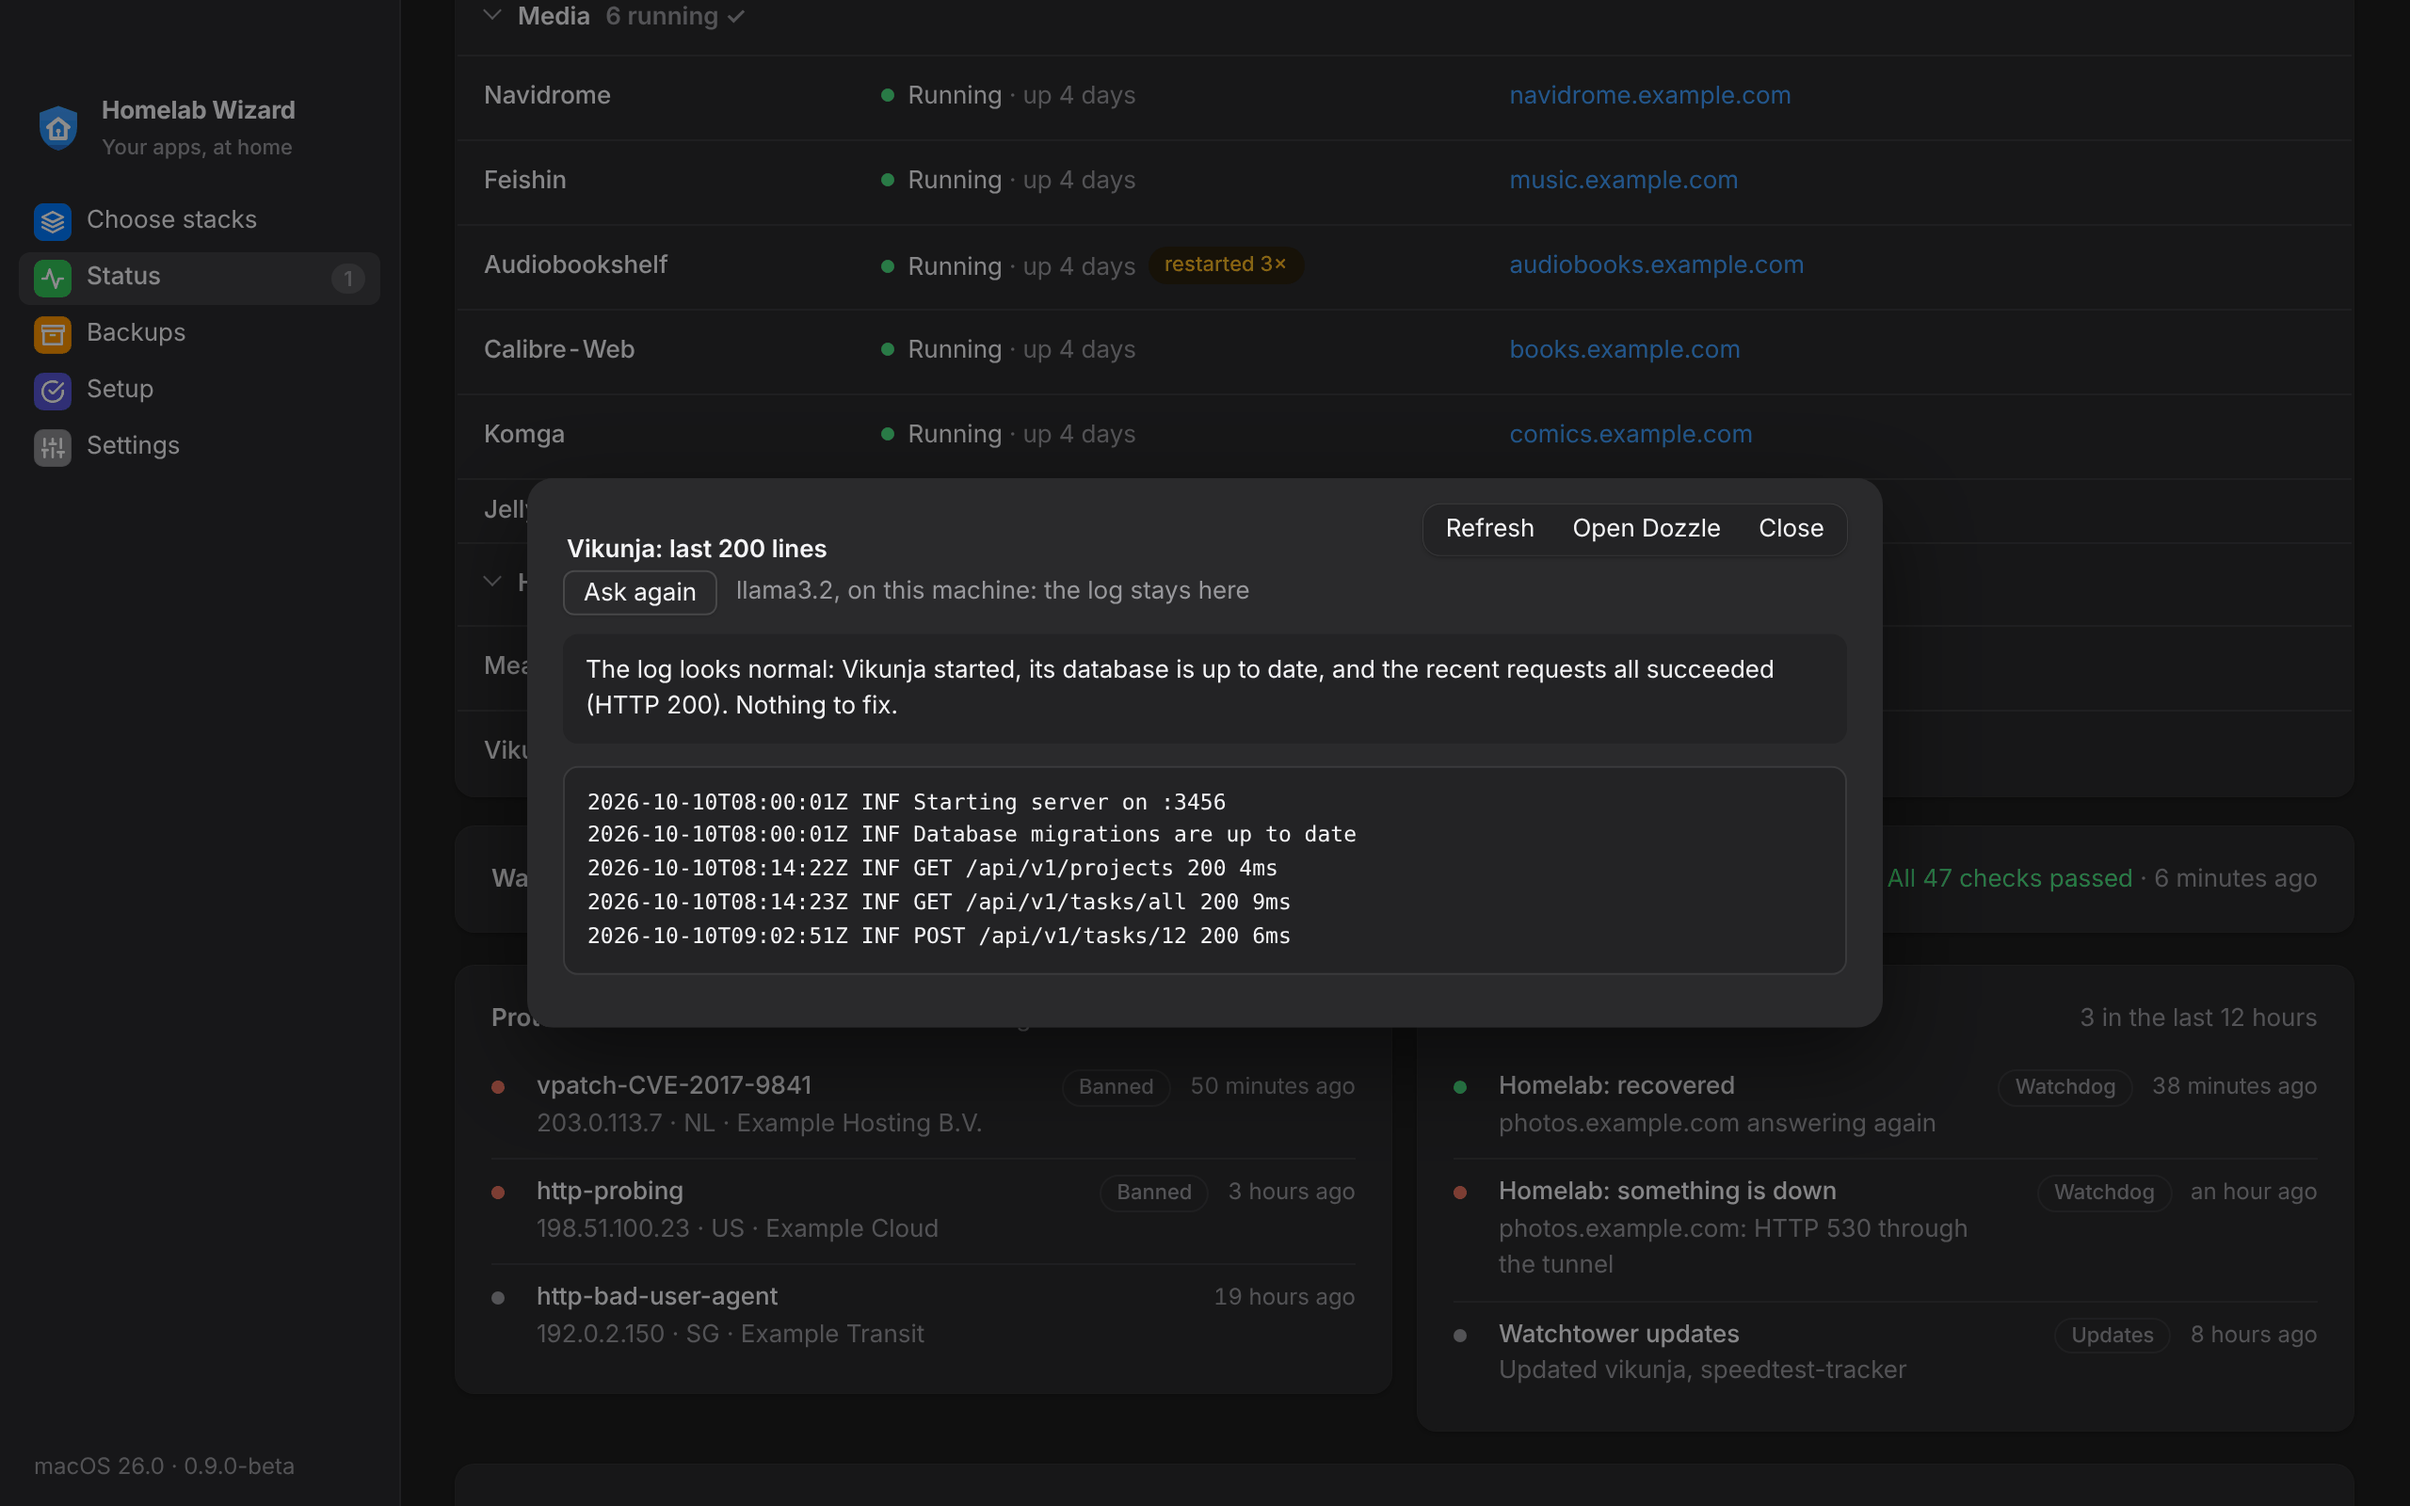
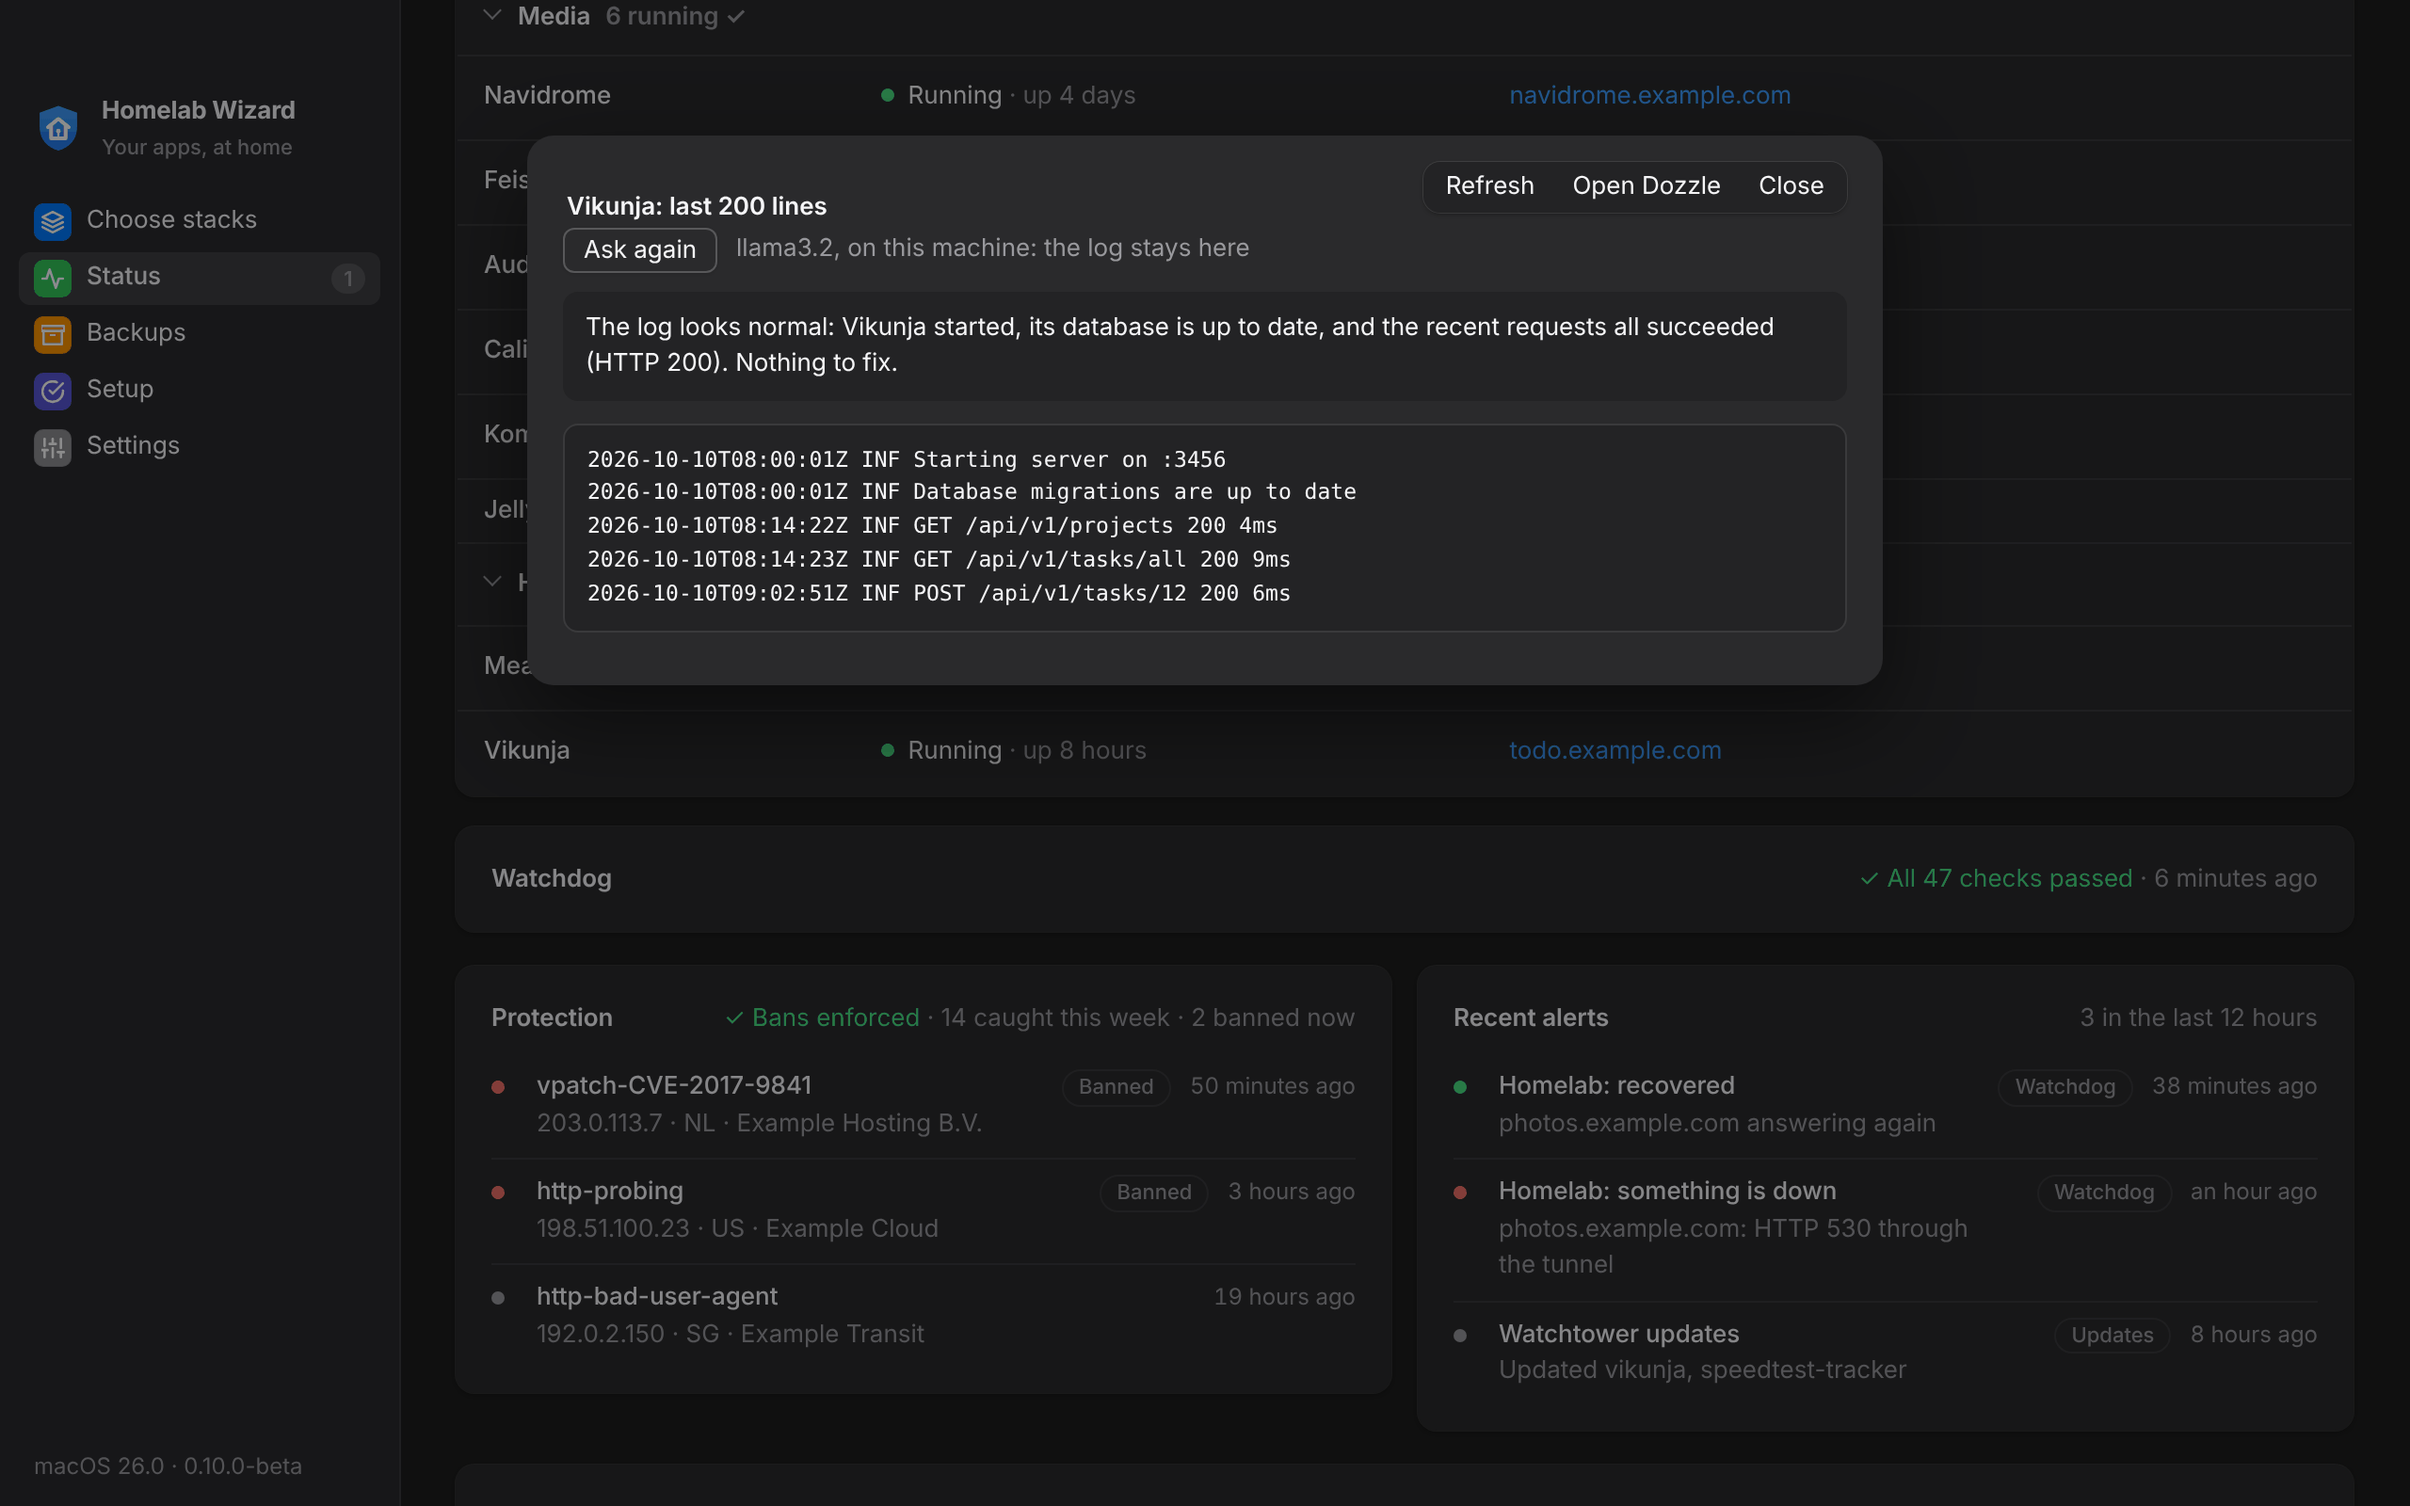
The job window holds still while apps update (#269)
* The job window holds still while apps update

On a Windows PC, Update apps' window jumped around as the apps updated
(the owner's report, with screenshots), and the page behind it with it:

- The command and log sheets were centred on the screen, so each app's
  row that came in moved both their edges. They now hang from the top
  (9% down, 24px at least) and grow down; a job's rows scroll in a box of
  their own under its bar, so the bar and the buttons stay put. The page
  behind no longer scrolls when a sheet is scrolled past its end.
- Status redrew behind an open sheet at each change the engine reported
  (containers stopping and starting during an update), reshuffling the
  page. Behind a sheet it is only marked out of date now, and read once
  when the last sheet closes, if something changed meanwhile.
- After Update them was clicked, its Cancel stayed: it only hid the
  window while the job went on. A running job has no buttons until it
  ends, as an app's own action already had.

A click-through check runs a 14-app update as the Mac, Windows, and
Linux: the sheet's top does not move as the rows come, no button shows
while it runs, Status is not read behind it until it closes. It fails on
the old code (the sheet moved from 277px to 88px; Update them and Cancel
while running).

Claude-Session: https://claude.ai/code/session_01K9KWL7U81wUSwnu7R7tKtT

* The Logs screenshots, with the sheet hanging from the top
[…]

diff --git a/web/dist/app.js b/web/dist/app.js
@@ -1198,7 +1198,7 @@
       }
     });
   }
-  function Sheet({ id, titleId, children }) {
+  function Sheet({ id, titleId, onClose, children }) {
     const ref = A2(null);
     _2(() => {
       closeOnEscape();
@@ -1209,9 +1209,10 @@
         if (!panel.hidden) {
           if (!panel.contains(document.activeElement)) before = document.activeElement;
           requestAnimationFrame(() => (panel.querySelector("button:not([disabled])") || panel).focus());
-        } else if (before && document.contains(before)) {
-          before.focus();
+        } else {
+          if (before && document.contains(before)) before.focus();
           before = null;
+          if (!openSheets().length) onClose?.();
         }
       });
       seen.observe(panel, { attributes: true, attributeFilter: ["hidden"] });
@@ -1221,8 +1222,8 @@
   }
 
   // web/src/sheets/Sheet.tsx
-  function CommandSheet() {
-    return /* @__PURE__ */ u2(Sheet, { id: "cliPanel", titleId: "cliTitle", children: [
+  function CommandSheet({ onClose }) {
+    return /* @__PURE__ */ u2(Sheet, { id: "cliPanel", titleId: "cliTitle", onClose, children: [
       /* @__PURE__ */ u2("h2", { id: "cliTitle", "aria-live": "polite" }),
       /* @__PURE__ */ u2("div", { id: "cliProgress", class: "progress", hidden: true, children: [
         /* @__PURE__ */ u2("div", { class: "track", children: /* @__PURE__ */ u2("span", { class: "fill" }) }),
@@ -1236,17 +1237,17 @@
       /* @__PURE__ */ u2("div", { id: "cliActions", class: "actions" })
     ] });
   }
-  function LogSheet() {
-    return /* @__PURE__ */ u2(Sheet, { id: "logPanel", titleId: "logTitle", children: [
+  function LogSheet({ onClose }) {
+    return /* @__PURE__ */ u2(Sheet, { id: "logPanel", titleId: "logTitle", onClose, children: [
       /* @__PURE__ */ u2(CardHead, { id: "logTitle", title: "", children: /* @__PURE__ */ u2("span", { class: "actions", id: "logActions" }) }),
       /* @__PURE__ */ u2("div", { id: "logExplain", hidden: true }),
       /* @__PURE__ */ u2("pre", { id: "logText", role: "log" })
     ] });
   }
-  function mountSheets(el) {
+  function mountSheets(el, closed) {
     R(/* @__PURE__ */ u2(S, { children: [
-      /* @__PURE__ */ u2(CommandSheet, {}),
-      /* @__PURE__ */ u2(LogSheet, {})
+      /* @__PURE__ */ u2(CommandSheet, { onClose: closed }),
+      /* @__PURE__ */ u2(LogSheet, { onClose: closed })
     ] }), el);
   }
   function Buttons({ buttons }) {
@@ -4079,7 +4080,9 @@
     }
     panel.scrollIntoView({ block: "nearest" });
   }
-  mountSheets($2("sheets"));
+  mountSheets($2("sheets"), () => {
+    if (missed) refreshStatus();
+  });
   var cliStop = null;
   async function cliFlow(title, action, target, confirmLabel) {
     const panel = $2("cliPanel"), log = $2("cliLog");
@@ -4110,6 +4113,7 @@
     cliButtons([
       { label: confirmLabel, primary: true, onClick: async () => {
         log.textContent += "\n";
+        cliButtons([]);
         let failed = false;
         try {
           await go().Homelab(action, target, true);
@@ -4150,8 +4154,11 @@
   document.addEventListener("keydown", (e3) => {
     if (e3.key === "Escape" && !$2("statusMenu").hidden) closeMenu();
   });
+  var missed = false;
   function refreshStatus() {
-    if ($2("status").classList.contains("active")) loadStatus();
+    const behind = document.documentElement.classList.contains("sheet-open");
+    missed = behind;
+    if ($2("status").classList.contains("active") && !behind) loadStatus();
     else statusData.stale();
   }
   setInterval(refreshStatus, 6e4);

diff --git a/web/src/screens/status.ts b/web/src/screens/status.ts
@@ -420,8 +420,9 @@ async function showLogs(a) {
 }
 
 // The command and log sheets (sheets/Sheet.tsx), closed until a command
-// or a log opens one.
-mountSheets($('sheets'));
+// or a log opens one. Status behind an open sheet holds still (see
+// refreshStatus) and catches up once the last one closes.
+mountSheets($('sheets'), () => { if (missed) refreshStatus(); });
 
 // A homelab command with a preview: show its plan, then run it on confirm.
 let cliStop = null; // the open flow's log listener
@@ -452,6 +453,8 @@ export async function cliFlow(title, action, target, confirmLabel) {
   cliButtons([
     { label: confirmLabel, primary: true, onClick: async () => {
       log.textContent += '\n';
+      // Running, it can no longer be cancelled: no buttons until it ends.
+      cliButtons([]);
       let failed = false;
       try { await go().Homelab(action, target, true); } catch (err) { failed = true; showError(err); }
       cliProgress(failed ? 'failed' : 'done');
@@ -481,9 +484,14 @@ document.addEventListener('keydown', (e) => { if (e.key === 'Escape' && !$('stat
 // starts, stops, or changes health reads it again at once (one read at a
 // time; a change during one reads again after it). The poll each minute
 // catches what the engine does not report (the watchdog, storage, alerts).
-// On another screen it is only marked out of date, and read when picked.
+// On another screen it is only marked out of date, and read when picked;
+// behind an open sheet too, so the page does not jump while a job runs
+// (the sheet's closing reads it).
+let missed = false; // a change came while a sheet was open
 export function refreshStatus() {
-  if ($('status').classList.contains('active')) loadStatus(); else statusData.stale();
+  const behind = document.documentElement.classList.contains('sheet-open');
+  missed = behind;
+  if ($('status').classList.contains('active') && !behind) loadStatus(); else statusData.stale();
 }
 setInterval(refreshStatus, 60000);
 

diff --git a/web/dist/style.css b/web/dist/style.css
@@ -819,10 +819,12 @@ html:is(.os-mac, .os-windows, .os-linux) .header .toolbar:not(:has(input)) .btn.
 
 /* The command and log panels as sheets: a card over the dimmed screen, as
    a sheet on macOS, a content dialog on Windows, a dialog in GNOME. */
-.panel.sheet:not([hidden]) { position:fixed; z-index:40; left:50%; top:50%; transform:translate(-50%, -50%); width:min(720px, calc(100vw - 48px)); max-height:min(78vh, 720px); margin:0; overflow:auto; box-shadow:0 18px 50px var(--shade-28); animation:sheet-in .18s ease-out; }
+.panel.sheet:not([hidden]) { position:fixed; z-index:40; left:50%; top:max(24px, 9vh); transform:translateX(-50%); width:min(720px, calc(100vw - 48px)); overscroll-behavior:contain; max-height:min(78vh, 720px); margin:0; overflow:auto; box-shadow:0 18px 50px var(--shade-28); animation:sheet-in .18s ease-out; }
 .panel.sheet pre { max-height:46vh; overflow:auto; }
 .panel.sheet:focus { outline:none; }
-@keyframes sheet-in { from { opacity:0; transform:translate(-50%, -48%) scale(.98); } }
+@keyframes sheet-in { from { opacity:0; transform:translate(-50%, 8px) scale(.98); } }
+/* A sheet holds still while it fills: it hangs from the top and grows down, and a job's rows scroll in a box of their own under its bar, so the bar and the buttons stay where they are. */
+.panel.sheet .jobapps { max-height:min(42vh, 380px); overflow:auto; overscroll-behavior:contain; }
 html.sheet-open body::after { content:""; position:fixed; inset:0; z-index:39; background:var(--shade-28); animation:sheet-dim .18s ease-out; }
 @keyframes sheet-dim { from { opacity:0; } }
 @media (prefers-color-scheme: dark) { .panel.sheet:not([hidden]) { box-shadow:0 18px 50px var(--shade-5); } html.sheet-open body::after { background:var(--shade-45); } }

diff --git a/web/src/sheets/Sheet.tsx b/web/src/sheets/Sheet.tsx
@@ -8,9 +8,9 @@ import { CardHead } from '../parts/Card';
 import { Sheet } from '../parts/Sheet';
 
 /** The command sheet: a command's title, its job's bar and apps, its log, and its buttons (jobs.ts). */
-function CommandSheet() {
+function CommandSheet({ onClose }: { onClose: () => void }) {
   return (
-    <Sheet id="cliPanel" titleId="cliTitle">
+    <Sheet id="cliPanel" titleId="cliTitle" onClose={onClose}>
       <h2 id="cliTitle" aria-live="polite"></h2>
       <div id="cliProgress" class="progress" hidden><div class="track"><span class="fill"></span></div><p class="step" aria-live="polite"></p></div>
       <div id="cliApps" aria-live="polite"></div>
@@ -21,9 +21,9 @@ function CommandSheet() {
 }
 
 /** The log sheet: the end of an app's log, Explain this, and its buttons. */
-function LogSheet() {
+function LogSheet({ onClose }: { onClose: () => void }) {
   return (
-    <Sheet id="logPanel" titleId="logTitle">
+    <Sheet id="logPanel" titleId="logTitle" onClose={onClose}>
       <CardHead id="logTitle" title=""><span class="actions" id="logActions"></span></CardHead>
       <div id="logExplain" hidden></div>
       <pre id="logText" role="log"></pre>
@@ -31,8 +31,8 @@ function LogSheet() {
   );
 }
 
-/** Draws both sheets, closed, once at start. */
-export function mountSheets(el: Element) { render(<><CommandSheet /><LogSheet /></>, el); }
+/** Draws both sheets, closed, once at start; closed is called when the last open one closes. */
+export function mountSheets(el: Element, closed: () => void) { render(<><CommandSheet onClose={closed} /><LogSheet onClose={closed} /></>, el); }
 
 export interface SheetButton {
   label: string;

diff --git a/web/src/parts/Sheet.tsx b/web/src/parts/Sheet.tsx
@@ -20,7 +20,8 @@ function closeOnEscape() {
   });
 }
 
-export function Sheet({ id, titleId, children }: { id: string; titleId: string; children: ComponentChildren }) {
+/** onClose: called when the last open sheet closes. */
+export function Sheet({ id, titleId, onClose, children }: { id: string; titleId: string; onClose?: () => void; children: ComponentChildren }) {
   const ref = useRef<HTMLDivElement>(null);
   useLayoutEffect(() => {
     closeOnEscape();
@@ -31,9 +32,10 @@ export function Sheet({ id, titleId, children }: { id: string; titleId: string; 
       if (!panel.hidden) {
         if (!panel.contains(document.activeElement)) before = document.activeElement;
         requestAnimationFrame(() => (panel.querySelector<HTMLElement>('button:not([disabled])') || panel).focus());
-      } else if (before && document.contains(before)) {
-        (before as HTMLElement).focus();
+      } else {
+        if (before && document.contains(before)) (before as HTMLElement).focus();
         before = null;
+        if (!openSheets().length) onClose?.();
       }
     });
     seen.observe(panel, { attributes: true, attributeFilter: ['hidden'] });

diff --git a/CHANGELOG.md b/CHANGELOG.md
@@ -62,6 +62,7 @@ Notes are grouped as **New**, **Improved**, and **Fixed**, one line each, in pla
 
 ### Fixed
 
+- The window that runs **Update apps** (and Fix it, and the other jobs) holds still: it no longer jumps as each app's row comes in, the page behind it waits until it closes instead of reshuffling, and its **Cancel** no longer shows once the job has started (it only hid the window; the job went on).
 - The desktop app uses golang.org/x/net 0.62.0, which fixes two flaws in its HTML parser published on 27 October 2026 (GO-2026-6866, GO-2026-6860).
 - Setup's **Addresses on your tailnet** no longer fails when Tailscale has only just started: it waits up to a minute for the sign-in link, or for the auth key to sign it in.
 - `homelab signups open` in Home mode names Vaultwarden's address on the tailnet, not `https://passwords.` with no domain.
